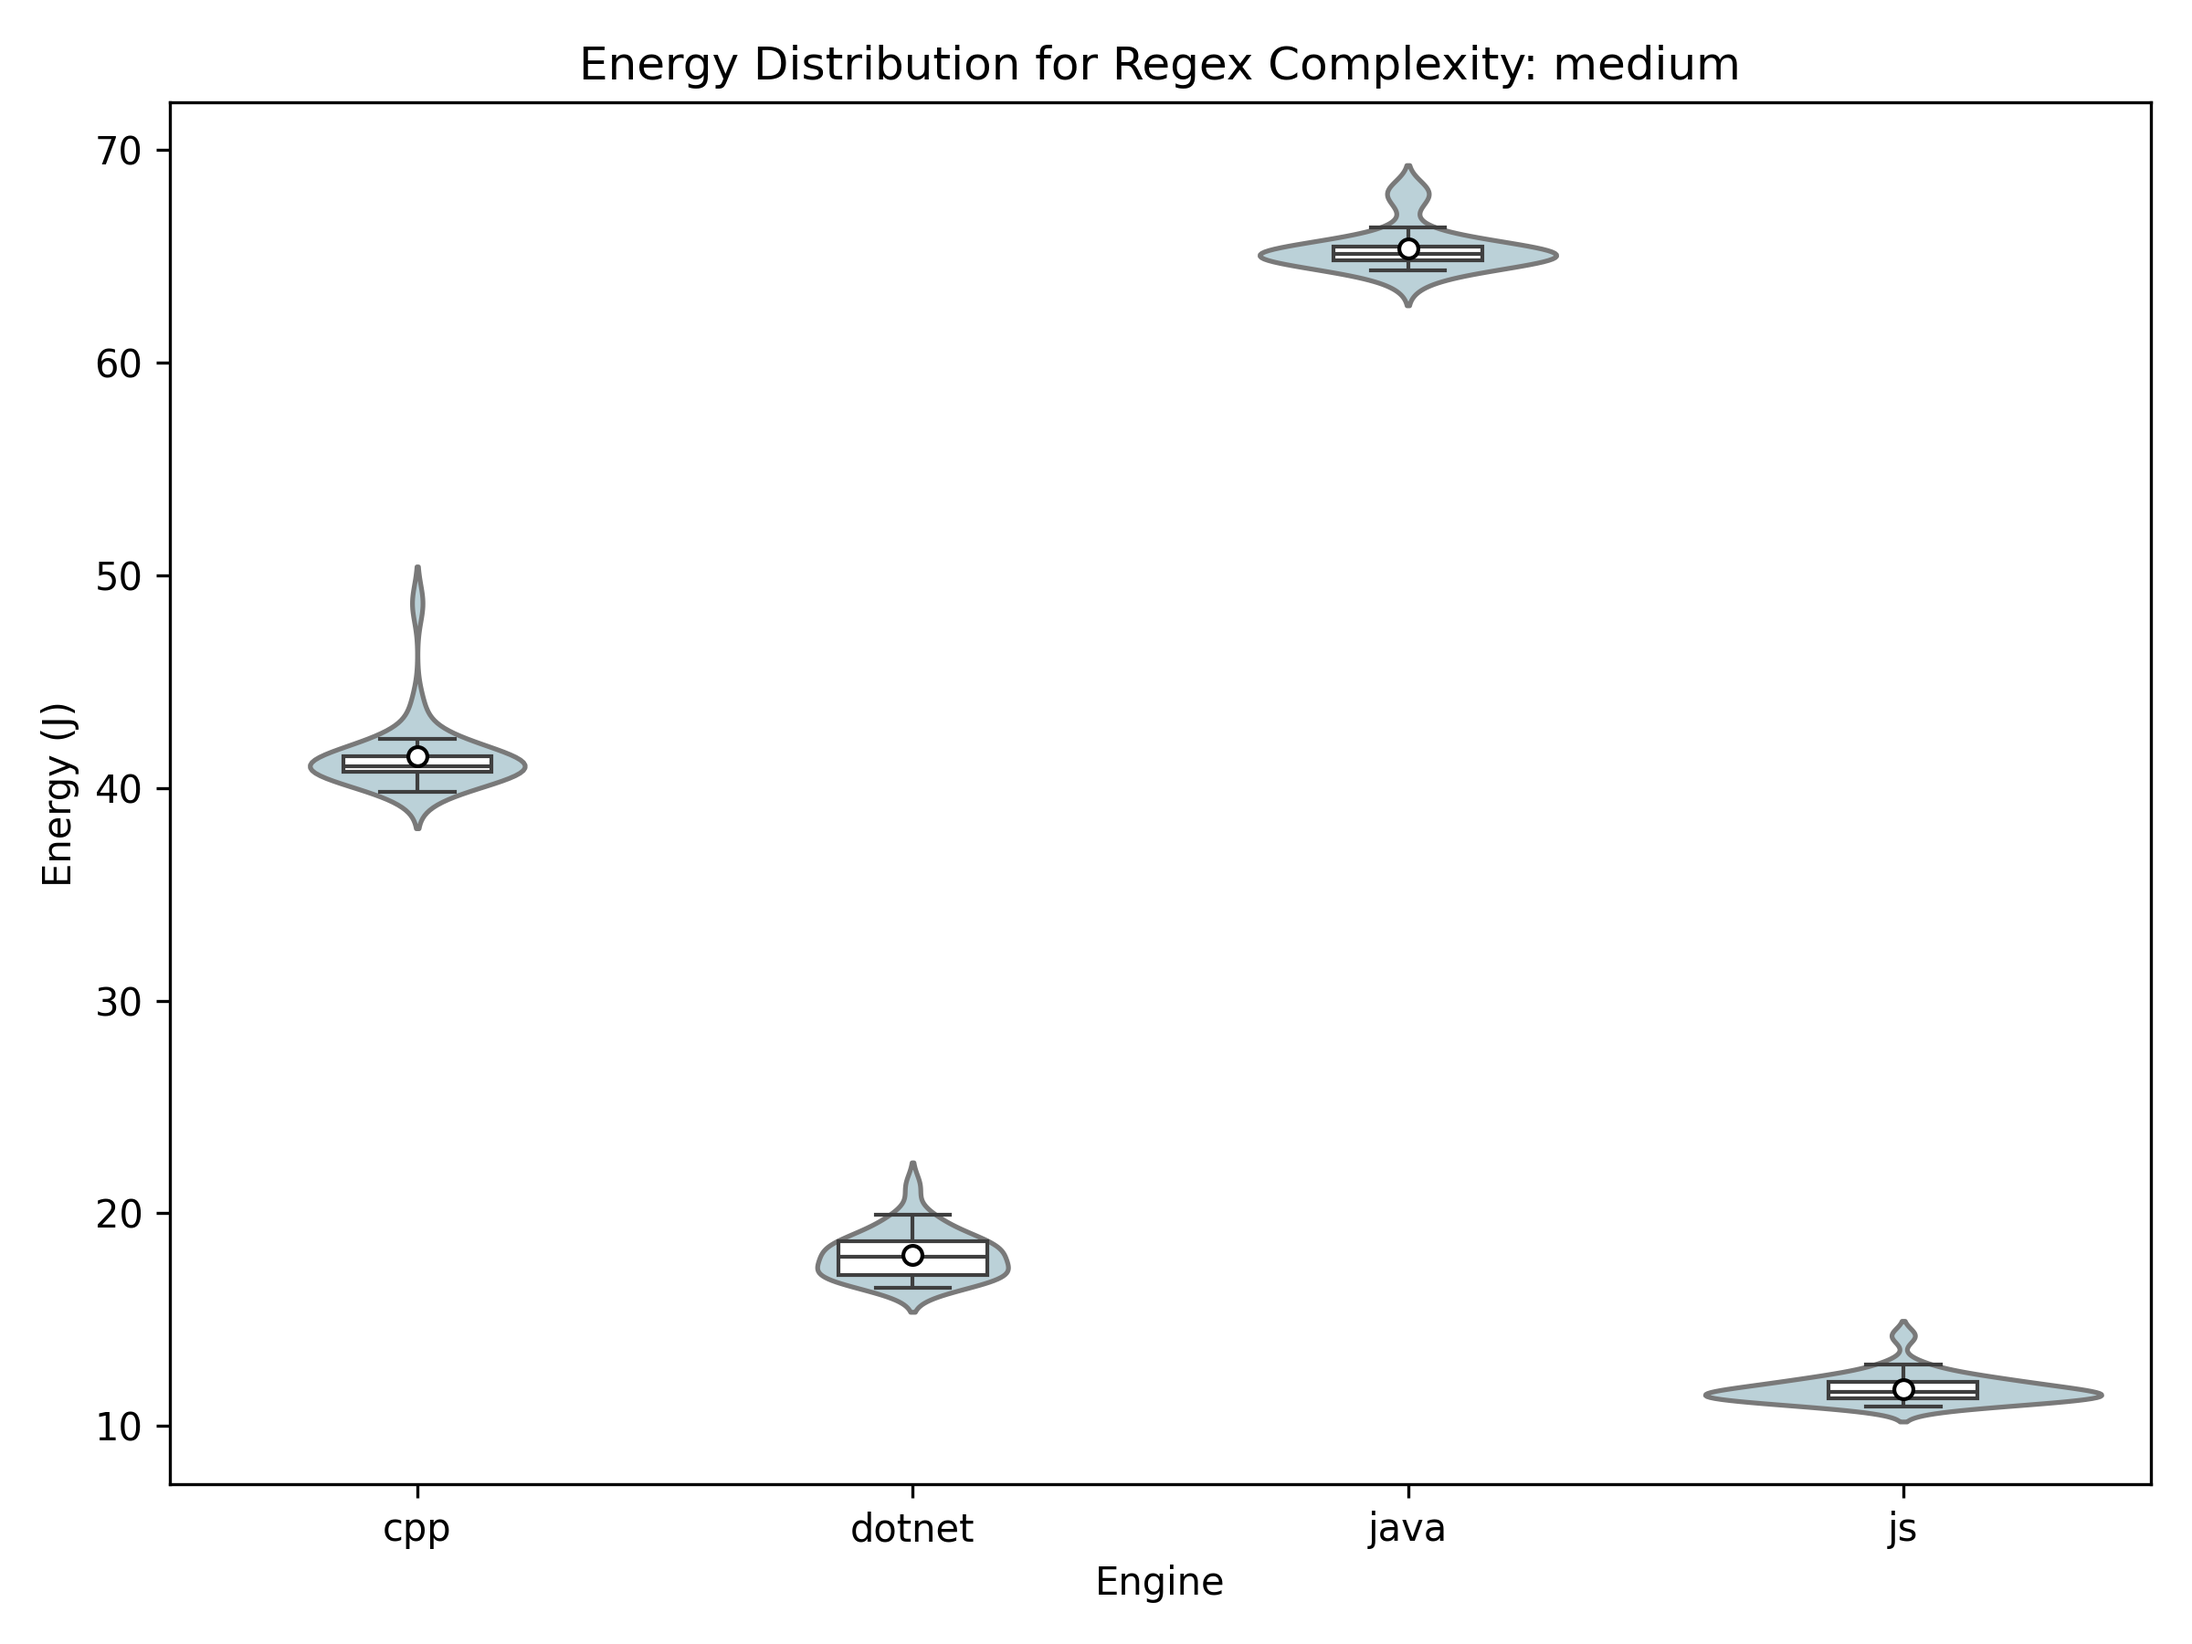
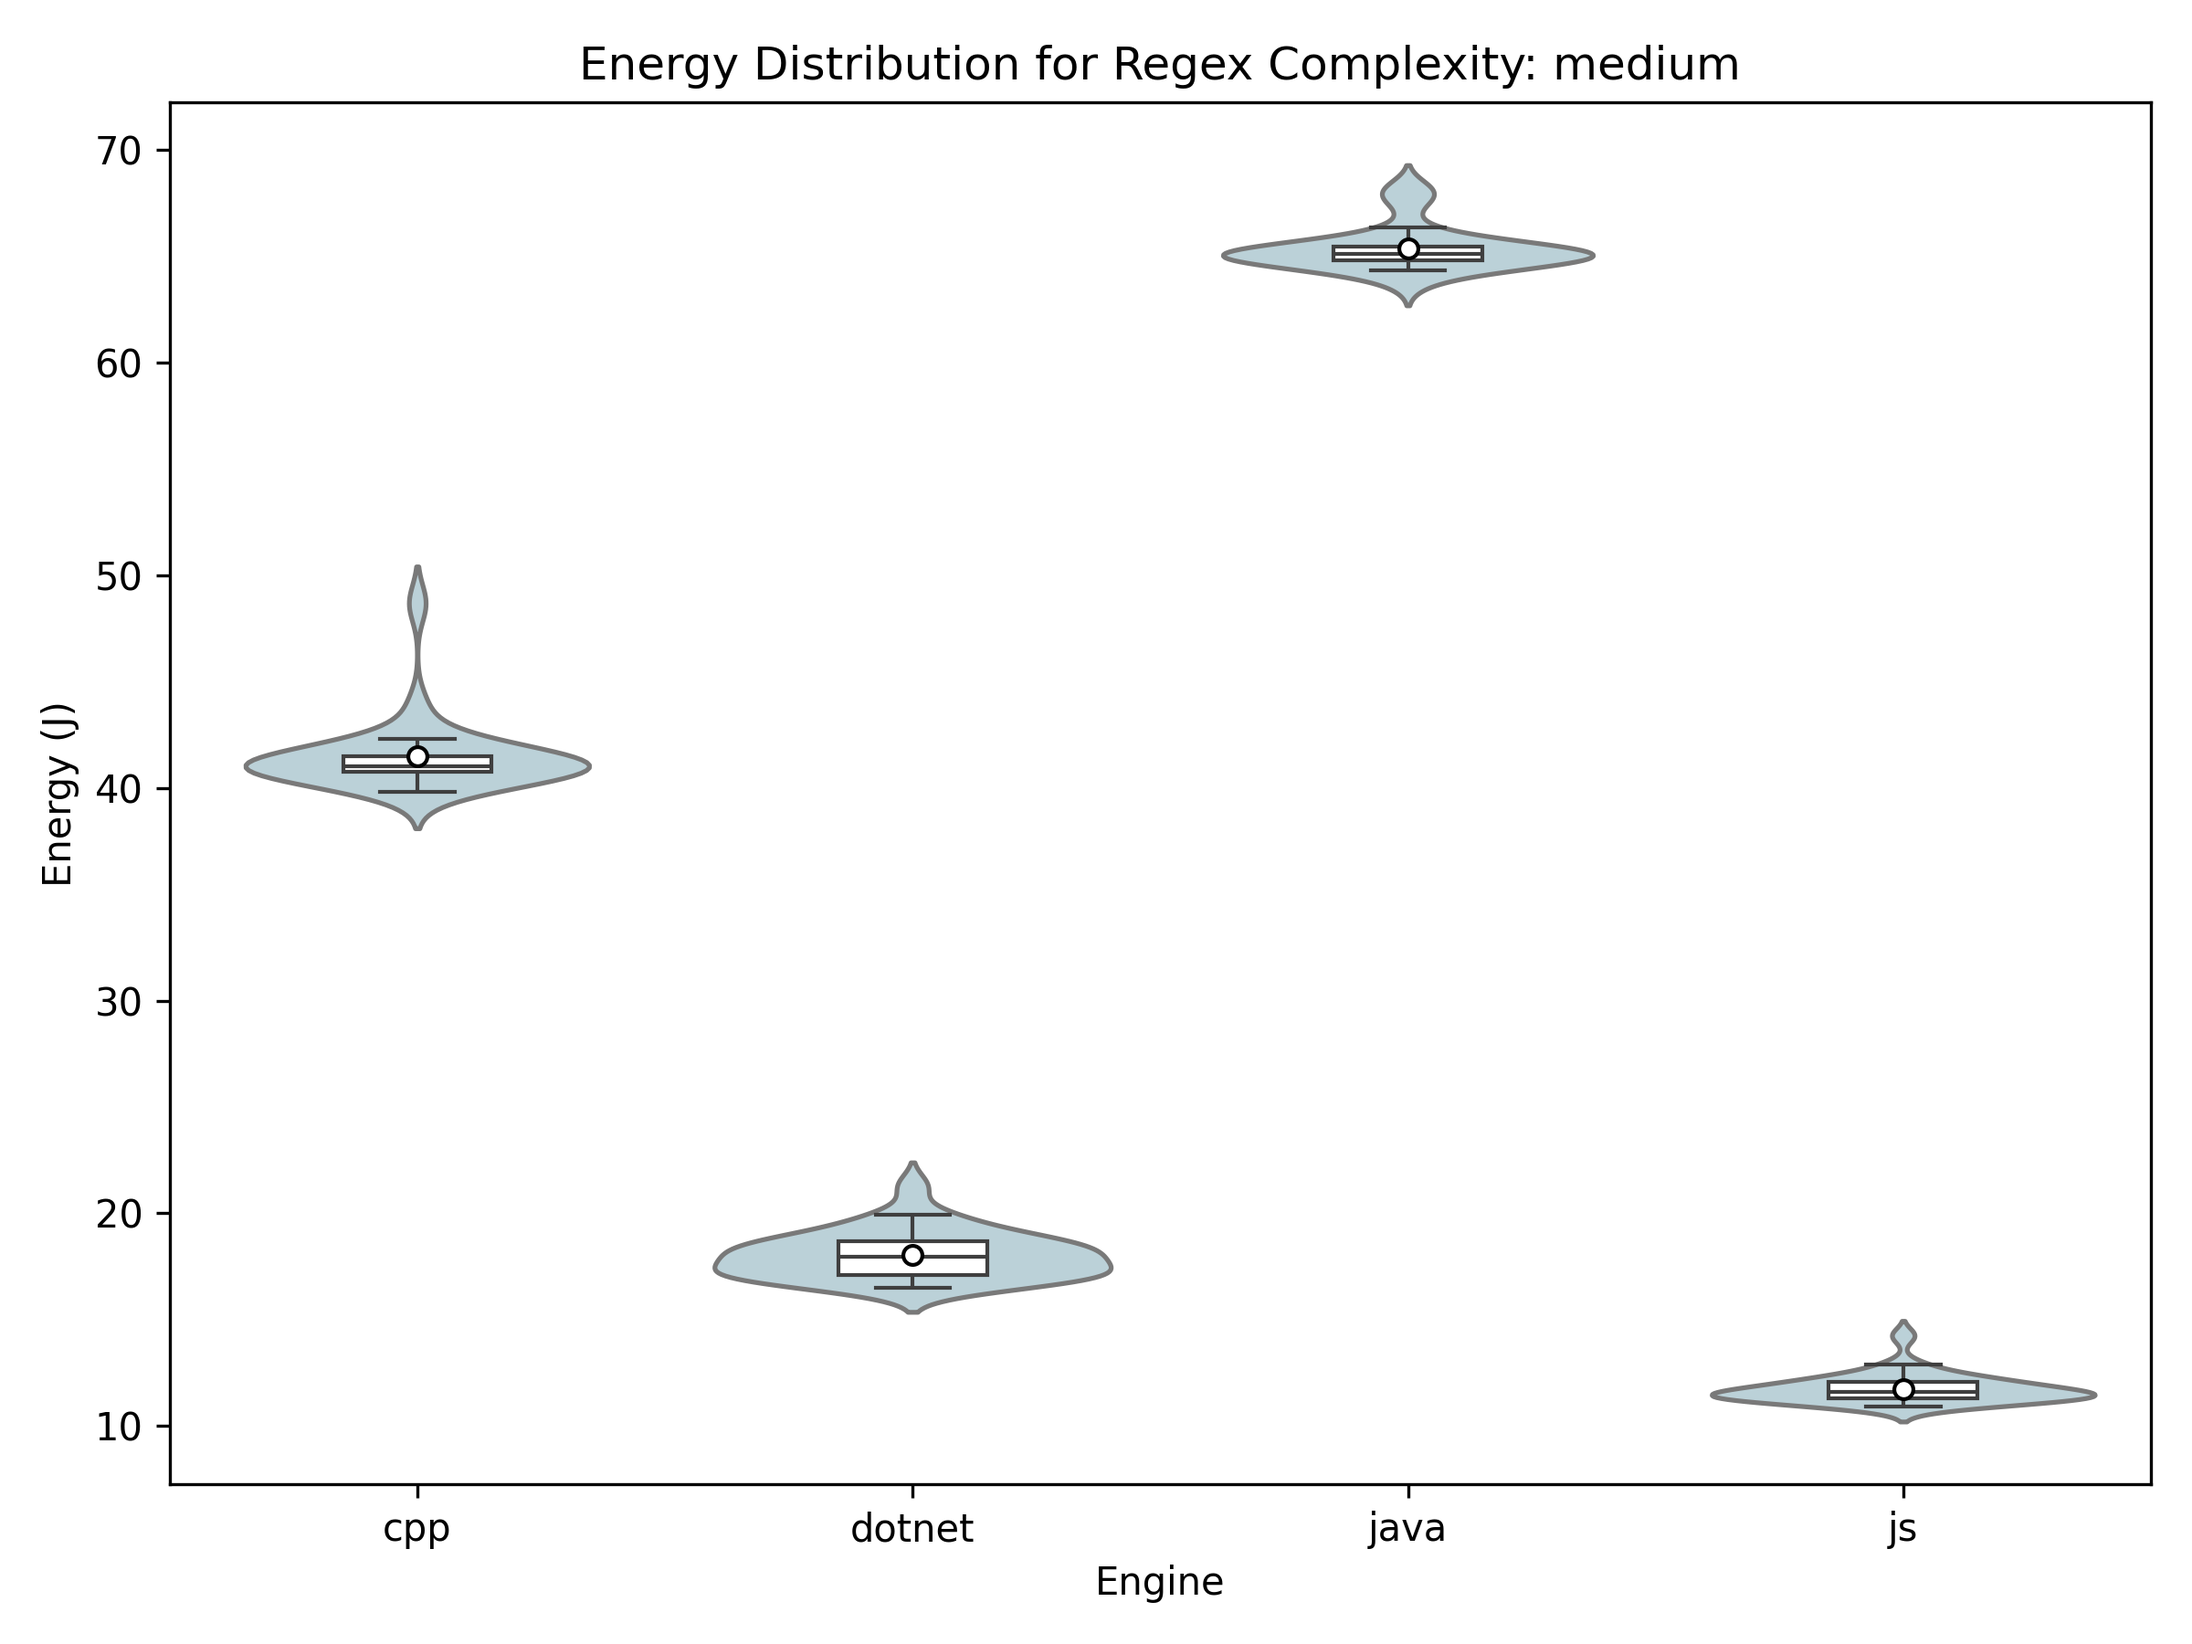
Adjust violin scales

diff --git a/analysis/plot_generator.py b/analysis/plot_generator.py
@@ -65,7 +65,8 @@ class PlotGenerator:
                 data=subset,
                 x="engine",
                 y=metric,
-                inner=None, # Turn off interior bars so they don't conflict with boxplot
+                inner=None, # Turn off interior bars so they don't conflict with boxplot,
+                density_norm="width",
                 color="lightblue",
                 saturation=0.5
             )
